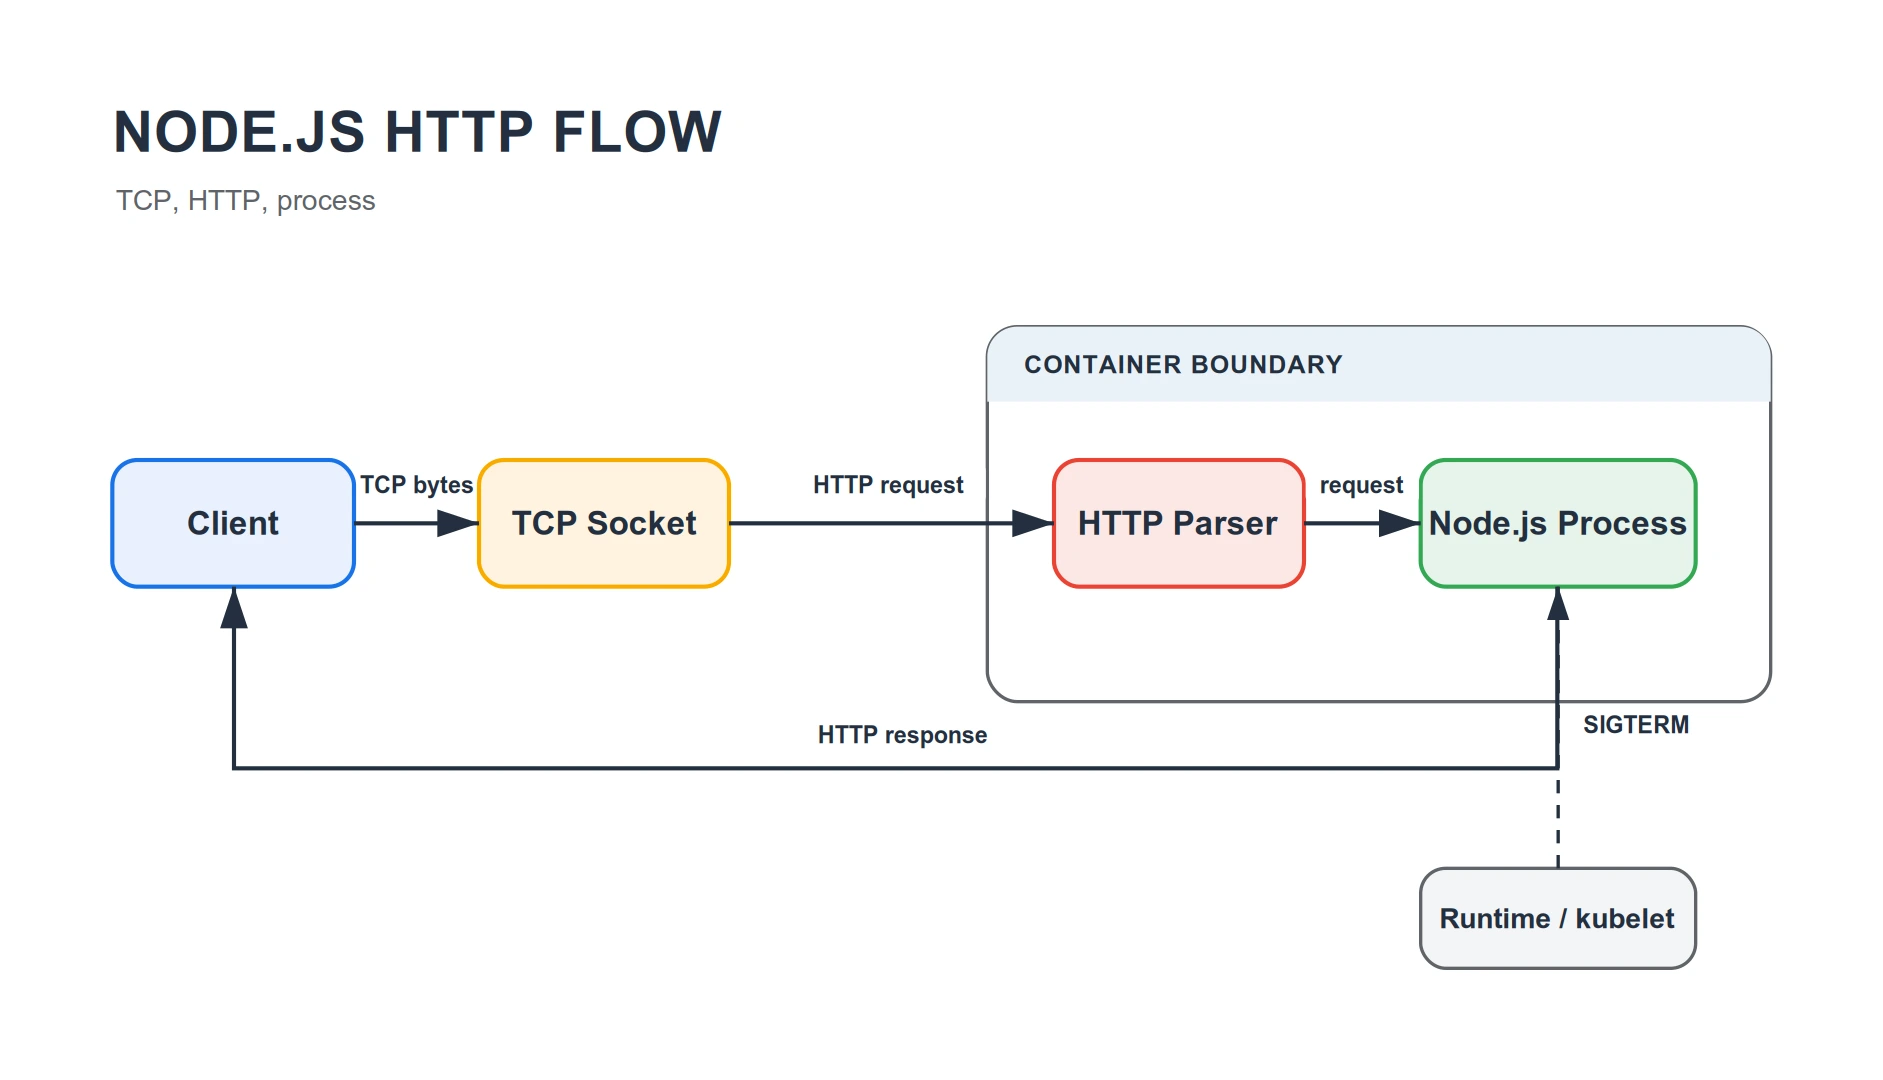
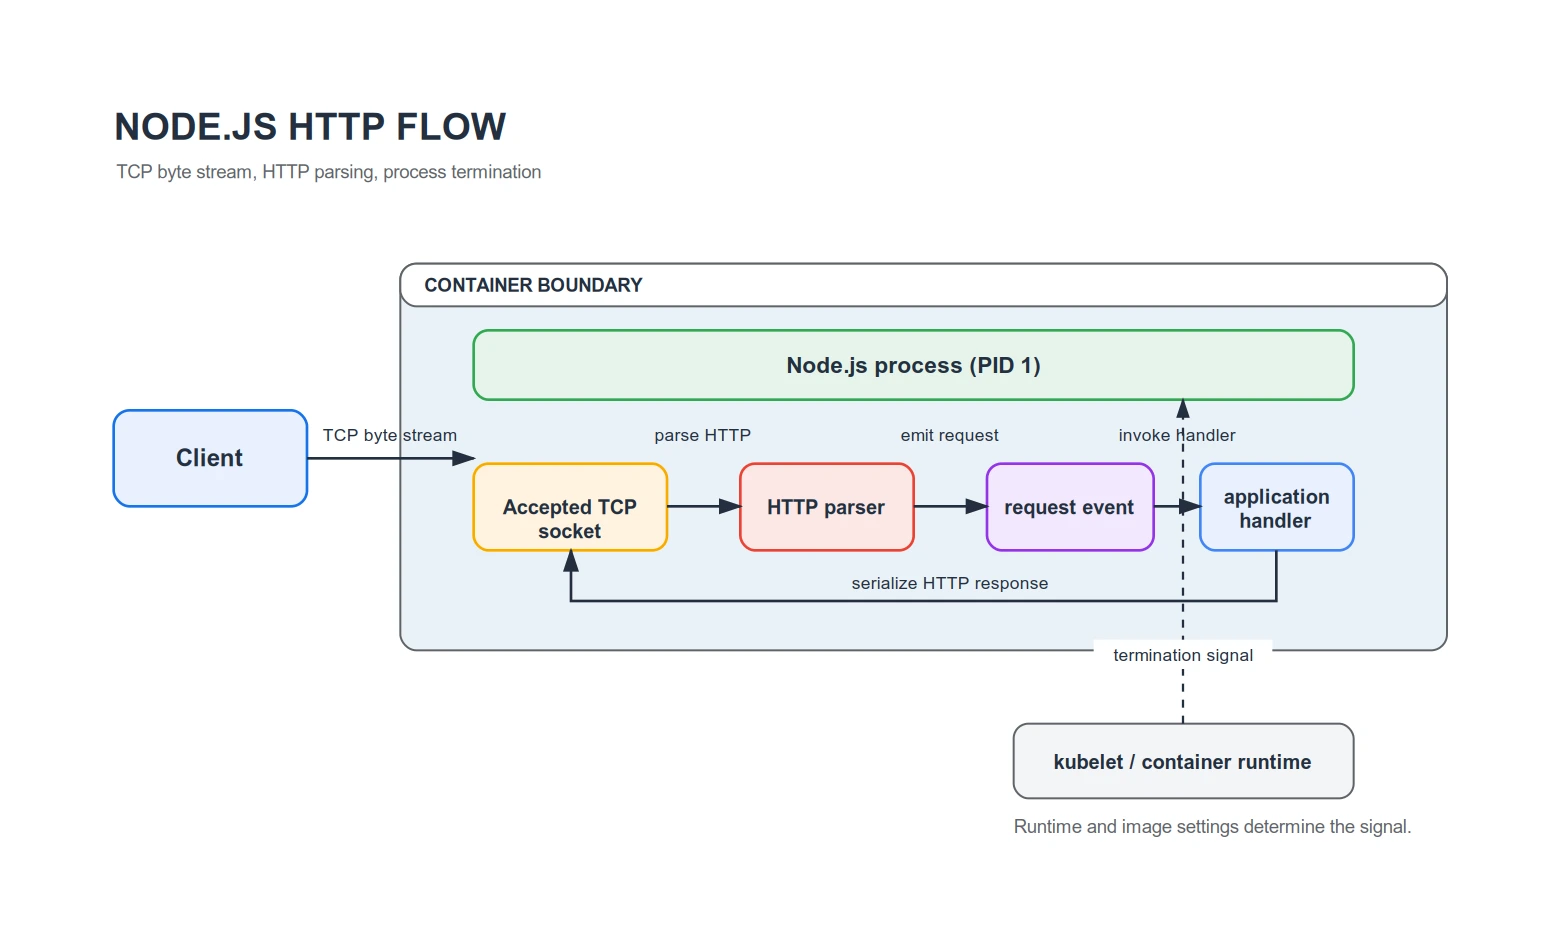
docs: harden Node.js request lifecycle boundaries

Changed region(s): [[0.0308, 0.275, 0.9538, 0.764], [0.0615, 0.0917, 0.4, 0.2139], [0.6462, 0.7945, 0.9231, 0.9168]]

diff --git a/_posts/2026/07/2026-07-28-nodejs-request-lifecycle.md b/_posts/2026/07/2026-07-28-nodejs-request-lifecycle.md
@@ -39,15 +39,15 @@ Node.js process는 포트를 listen하고 HTTP 요청을 handler로 전달합니
 HTTP/1.1 keep-alive가 유효하고 양 끝점이 연결을 유지하기로 하면 하나의 TCP 연결로 여러 HTTP 요청과 응답을 처리할 수 있습니다. 반대로 클라이언트 agent 설정, server timeout, reverse proxy 정책, max request 수, network 오류, 배포 중 drain 상태가 있으면 새 연결이 만들어질 수 있습니다. 따라서 "요청 두 번을 보냈는데 connection event가 하나였다"는 것은 연결 재사용의 관측 결과이지 Node.js가 요청을 하나만 처리했다는 뜻이 아닙니다.
 
 ![Node.js HTTP 요청 처리와 종료 제어 흐름](/assets/img/nodejs/node-http-request-lifecycle-flow.webp)
-_Node.js HTTP 요청은 TCP socket과 HTTP parser를 거쳐 process handler에 도착합니다. 실선은 데이터 흐름, 점선은 container runtime 또는 kubelet의 종료 제어 흐름입니다._
+_Node.js process 안에서 accepted TCP socket의 byte stream을 HTTP parser가 해석하고, request event가 application handler를 호출합니다. 실선은 데이터 흐름, 점선은 container runtime 또는 kubelet의 종료 제어 흐름입니다._
 
-그림의 왼쪽에서 오른쪽은 요청 처리의 논리 흐름입니다. 점선은 데이터 요청이 아니라 종료 제어 흐름입니다. 실제 배포에서는 client와 Node.js 사이에 load balancer, Gateway, reverse proxy가 추가될 수 있지만, 각 홉에서도 TCP 연결과 HTTP 메시지의 구분은 유지됩니다.
+그림의 왼쪽에서 오른쪽은 요청 처리의 논리 흐름입니다. HTTP parser, request event, application handler는 모두 Node.js process와 container boundary 안에 있습니다. 점선은 데이터 요청이 아니라 process termination 제어 흐름입니다. 실제 배포에서는 client와 Node.js 사이에 load balancer, Gateway, reverse proxy가 추가될 수 있지만, 각 홉에서도 TCP 연결과 HTTP 메시지의 구분은 유지됩니다.
 
 ---
 
 ## 3. Node.js `http` 서버가 하는 일
 
-`http.createServer()`는 서버 객체를 만들고 request listener를 등록합니다. 서버가 `listen()`한 뒤 HTTP 요청을 받으면 listener는 `IncomingMessage`와 `ServerResponse`를 받아 status, header, body를 작성합니다. connection event는 TCP socket이 수락될 때 관찰할 수 있고, request handler는 HTTP 요청마다 호출됩니다.
+`http.createServer()`는 서버 객체를 만들고 request listener를 등록합니다. 서버가 `listen()`한 뒤 일반 HTTP 요청을 받으면 listener는 `IncomingMessage`와 `ServerResponse`를 받아 status, header, body를 작성합니다. connection event는 TCP socket이 수락될 때 관찰할 수 있고, 일반 request handler는 해석된 HTTP 요청마다 호출됩니다. 다만 `Expect: 100-continue`, `CONNECT`, protocol upgrade는 각각 `checkContinue`, `connect`, `upgrade` event로 별도 처리 경로를 가질 수 있으므로, 이 글의 실험은 일반 HTTP/1.1 request event만 대상으로 합니다.
 
 다음 예제는 요청과 연결을 각각 로그로 남기고, `SIGTERM` 때 새 연결 수락을 중단하는 최소 서버입니다. 실제 서비스에서는 readiness 전환, 외부 연결 drain, timeout, 강제 종료 정책을 서비스 특성에 맞게 추가해야 합니다.
 
@@ -130,6 +130,18 @@ server.close callback error=none
 ```
 
 두 번째 client 요청의 `reusedSocket=true`와 server의 connection log 한 줄, 같은 remote port는 이 실험에서 하나의 TCP 연결이 두 HTTP 요청에 재사용됐다는 증거입니다. 이는 특정 Node.js version, localhost network, 순차 요청, 명시적인 keep-alive agent 조건의 결과입니다. browser, proxy, HTTP version, concurrent request 수가 달라지면 관측 결과도 달라질 수 있습니다.
+
+같은 환경에서 `/slow` 요청을 처리하는 동안 `SIGTERM`을 보내는 별도 drain 실험도 실행했습니다. 이 실험은 새 연결을 성공적으로 처리했다는 보장이 아니라, `server.close()` 호출 뒤 listen socket이 닫혀 새 TCP 연결이 거절되고 기존 handler가 종료 전까지 완료되는 한 가지 조건을 확인합니다.
+
+```text
+listening
+request_start path=/slow
+sigterm
+request_end path=/slow status=200
+close_callback
+```
+
+실험에서 SIGTERM 뒤 새 연결은 `ECONNREFUSED`였고, 이미 시작한 `/slow` 요청은 `200`으로 끝났습니다. 장기 streaming response, WebSocket, downstream database transaction은 이 재현 범위에 없으므로 같은 종료 결과를 보장한다고 해석하면 안 됩니다.
 
 ---
 
